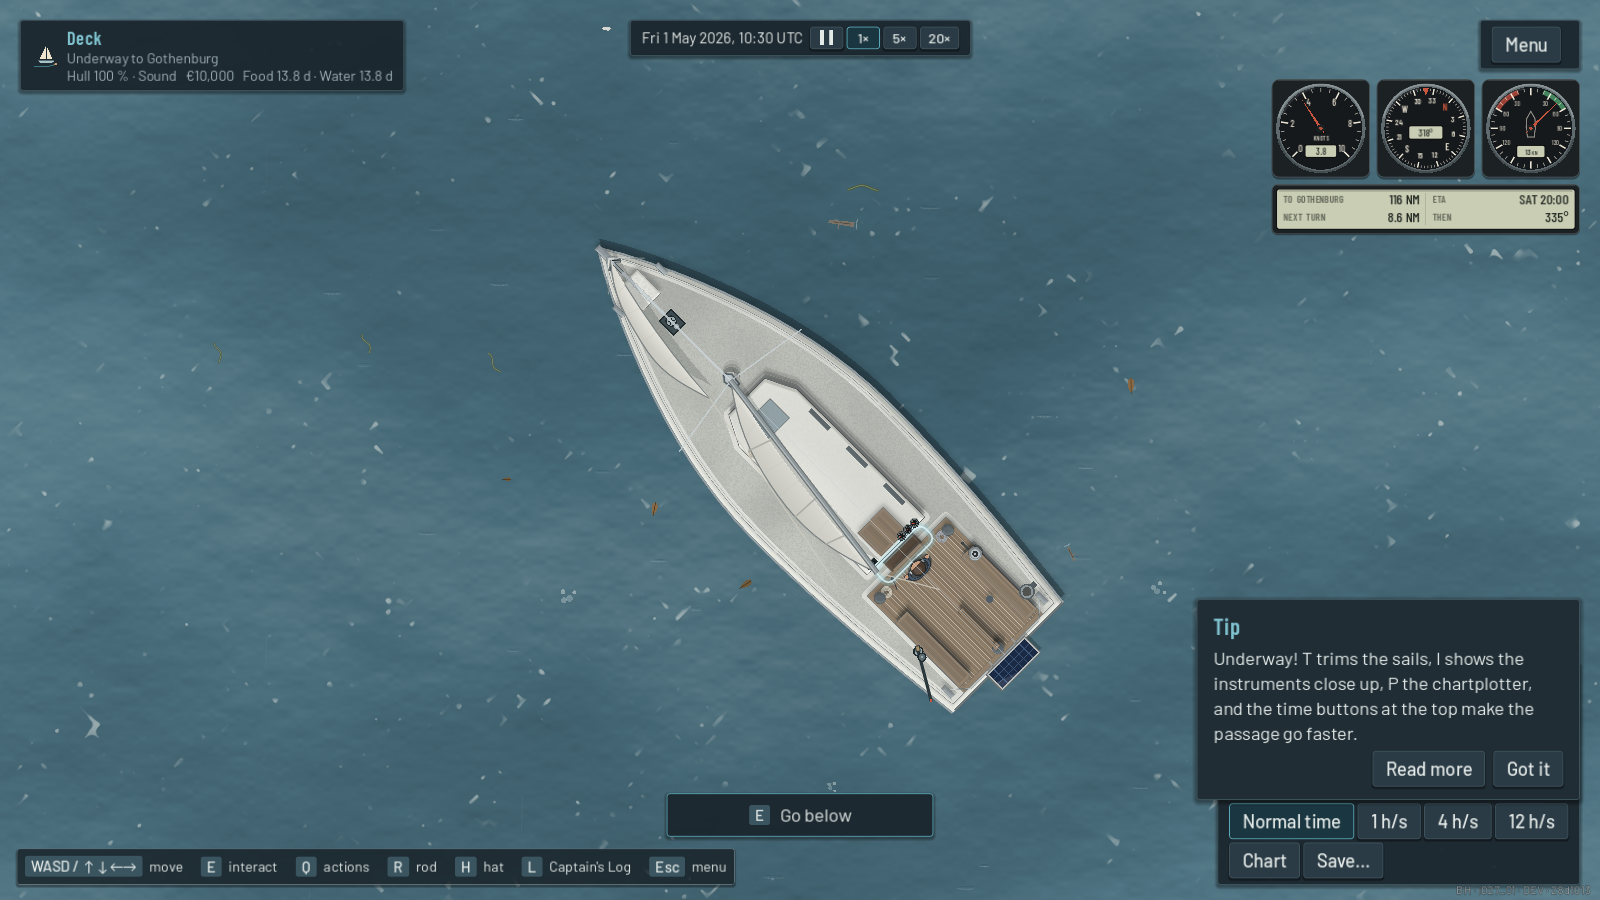
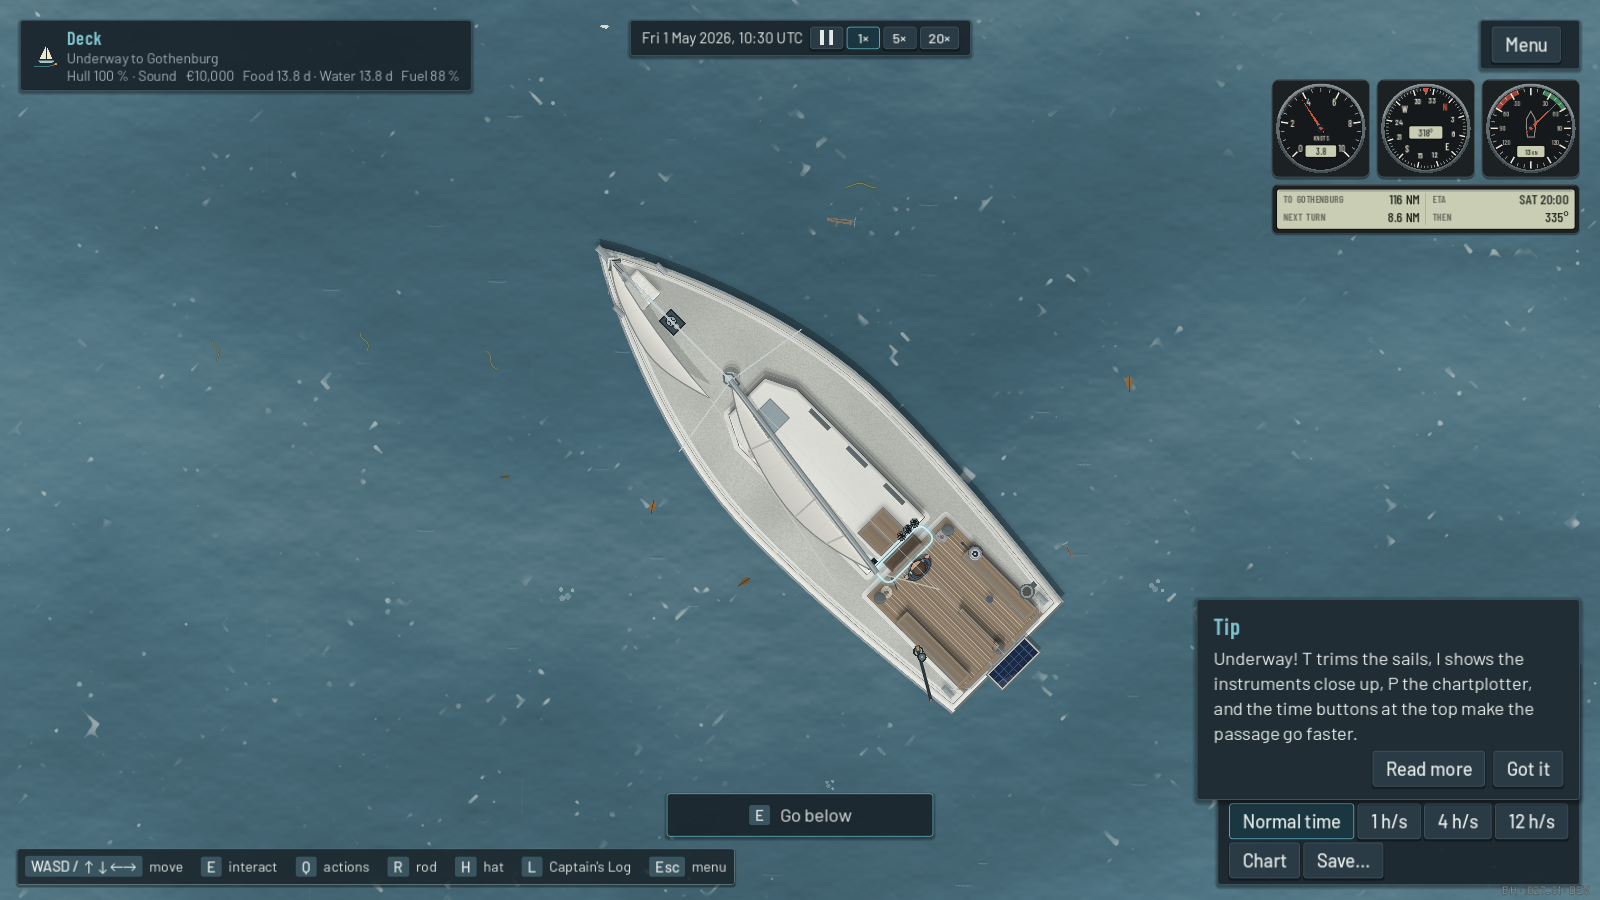
I027 Tier 2: the action wheel makes room for its items; Tier 2 screenshots
Under way the wheel now holds eleven items (Tack now, Motor to windward);
with the fixed ellipse they overlapped. Its radii now follow the item count
and stay on screen (tested at 1280x720 and 1024x768, 100 and 130 %).

Claude-Session: https://claude.ai/code/session_01HoR6KFjcEMyK8FPor4k1Dc

Changed region(s): [[0.25, 0.0, 0.3125, 0.1244]]

diff --git a/docs/technical/GDSCRIPT_GUIDE_DA.md b/docs/technical/GDSCRIPT_GUIDE_DA.md
@@ -1686,7 +1686,7 @@ Reglerne står i [CAPTAINS_ORDERS.md](../../CAPTAINS_ORDERS.md) (Working rules).
 ### `src/ui/action_wheel.gd`
 
 **Formål:** Ringen af handlinger, der åbner med Q.
-- **Hvad det gør:** Lægger de handlinger, der giver mening, hvor du er (ved roret, i kahytten, for anker, i havn), i en ring; piletaster eller A/D flytter rundt, E/Enter vælger, Q eller Esc lukker. Tænd/sluk-punkter viser et afkrydsningsfelt.
+- **Hvad det gør:** Lægger de handlinger, der giver mening, hvor du er (ved roret, i kahytten, for anker, i havn), i en ring; piletaster eller A/D flytter rundt, E/Enter vælger, Q eller Esc lukker. Tænd/sluk-punkter viser et afkrydsningsfelt. I027: hjulet vokser med antallet af punkter (under sejlads kan det rumme et dusin), så ingen to nogensinde overlapper, og det bliver på skærmen ved alle grænsefladestørrelser.
 - **Arbejder sammen med:** `App` (som giver listen fra `App.get_wheel_actions()`), `ModalPanel` / modal-stakken (stakken af åbne vinduer), `UiTheme`.
 - **Holder styr på:** Kun listen af handlinger, den har fået, og hvilken der er valgt.
 - **Hvornår det kører:** Når du trykker Q (eller åbner det) under spillet.
@@ -2586,7 +2586,7 @@ Reglerne står i [CAPTAINS_ORDERS.md](../../CAPTAINS_ORDERS.md) (Working rules).
 ### `tests/suites/test_cost_of_wind.gd`
 
 **Formål:** Tester brændstof og driftsomkostningerne (I027).
-- **Hvad det gør:** Tester balancefilen, brændstof brugt kun for motor, en tom tank der overlader det til sejlene (ingen gratis motor, aldrig strandet), køb af brændstof (fyld op, med få penge, Relaxed billigere, intet til søs), havnepenge (nætter, et kort ophold, eftergivet ud over pengene), regnskabet og en rejses oversigt, motor op mod vinden mod krydsning, det hele gennem et gemt spil og et ældre gemt spil, og tankanlægget på kajen med sin menu, statuslinjen og havnekontorets driftsomkostninger.
+- **Hvad det gør:** Tester balancefilen, brændstof brugt kun for motor, en tom tank der overlader det til sejlene (ingen gratis motor, aldrig strandet), køb af brændstof (fyld op, med få penge, Relaxed billigere, intet til søs), havnepenge (nætter, et kort ophold, eftergivet ud over pengene), regnskabet og en rejses oversigt, motor op mod vinden mod krydsning, det hele gennem et gemt spil og et ældre gemt spil, og tankanlægget på kajen med sin menu, statuslinjen og havnekontorets driftsomkostninger. Den tester også, at handlingshjulet under sejlads aldrig lader sine punkter overlappe ved de lovede størrelser og skaleringer.
 - **Arbejder sammen med:** `Economy`, `GameSession`, `Simulation`, `CareerLedger`, `SessionState`, `HarbourFront`, `FuelMenu`, `HarbourOfficeMenu`, `Hud`, kajhjælperen.
 - **Holder styr på:** Intet selv.
 - **Hvornår det kører:** Kun i testene.
@@ -3416,7 +3416,7 @@ Reglerne står i [CAPTAINS_ORDERS.md](../../CAPTAINS_ORDERS.md) (Working rules).
 ### `tests/screenshots_i027.gd`
 
 **Formål:** Tager de billeder, der viser I027 virke i det kørende spil.
-- **Hvad det gør:** Starter et nyt spil, sætter sejl mod Göteborg med vinden lige imod og fotograferer båden, der krydser på dækket, instrumenterne med halsen og fremdriften, kortplotteren, dækket efter en vending i hånden og handlingshjulet med "Vend nu". `--shots=` vælger nogle.
+- **Hvad det gør:** Starter et nyt spil, sætter sejl mod Göteborg med vinden lige imod og fotograferer båden, der krydser på dækket, instrumenterne med halsen og fremdriften, kortplotteren, dækket efter en vending i hånden og handlingshjulet med "Vend nu". `--shots=` vælger nogle. Billeder fra trin 2 (10-14, docs/screenshots/i027/tier2): tankanlæggets pumpe på kajen, dens menu, havnekontorets driftsomkostninger, hjulets Motor op mod vinden og statuslinjens brændstof.
 - **Arbejder sammen med:** app-scenen, `Simulation`, `GameSession`, `InstrumentView`, `PlotterView`, handlingshjulet.
 - **Holder styr på:** Intet; den skriver PNG-filer (kun testgemmer og testindstillinger).
 - **Hvornår det kører:** Kun i hånden, med en rigtig skærm eller Xvfb: `res://tests/screenshots_i027.tscn -- [--out=DIR] [--shots=a,b]`.

diff --git a/docs/technical/GDSCRIPT_GUIDE_EN.md b/docs/technical/GDSCRIPT_GUIDE_EN.md
@@ -1684,7 +1684,7 @@ The rules are in [CAPTAINS_ORDERS.md](../../CAPTAINS_ORDERS.md) (Working rules).
 ### `src/ui/action_wheel.gd`
 
 **Purpose:** The ring of actions that opens with Q.
-- **What it does:** Places the actions that make sense where you are (helm, cabin, at anchor, in harbour) in a ring; arrow keys or A/D move round it, E/Enter chooses, Q or Esc closes. On/off items show a check box.
+- **What it does:** Places the actions that make sense where you are (helm, cabin, at anchor, in harbour) in a ring; arrow keys or A/D move round it, E/Enter chooses, Q or Esc closes. On/off items show a check box. I027: the wheel grows with the number of items (under way it can hold a dozen) so no two ever overlap, and stays on the screen at every interface size.
 - **Works with:** `App` (which gives it the list from `App.get_wheel_actions()`), `ModalPanel` / the modal stack, `UiTheme`.
 - **Keeps:** Only the list of actions it was given and which one is selected.
 - **When it runs:** When you press Q (or open it) during play.
@@ -2584,7 +2584,7 @@ The rules are in [CAPTAINS_ORDERS.md](../../CAPTAINS_ORDERS.md) (Working rules).
 ### `tests/suites/test_cost_of_wind.gd`
 
 **Purpose:** Checks fuel and the running costs (I027).
-- **What it does:** Checks the balance file, fuel burned only under engine, an empty tank leaving the sails (no free engine, never stranded), buying fuel (fill up, with little money, Relaxed cheaper, none at sea), harbour dues (nights, a short stop, waived beyond the money), the books and a voyage's record, motoring to windward against beating, everything through a save and an older save, and the fuel berth on the quay with its menu, the status line and the harbour office's running costs.
+- **What it does:** Checks the balance file, fuel burned only under engine, an empty tank leaving the sails (no free engine, never stranded), buying fuel (fill up, with little money, Relaxed cheaper, none at sea), harbour dues (nights, a short stop, waived beyond the money), the books and a voyage's record, motoring to windward against beating, everything through a save and an older save, and the fuel berth on the quay with its menu, the status line and the harbour office's running costs. It also checks that the action wheel under way never overlaps its items at the promised sizes and scales.
 - **Works with:** `Economy`, `GameSession`, `Simulation`, `CareerLedger`, `SessionState`, `HarbourFront`, `FuelMenu`, `HarbourOfficeMenu`, `Hud`, the quay helper.
 - **Keeps:** Nothing of its own.
 - **When it runs:** Only in tests.
@@ -3414,7 +3414,7 @@ The rules are in [CAPTAINS_ORDERS.md](../../CAPTAINS_ORDERS.md) (Working rules).
 ### `tests/screenshots_i027.gd`
 
 **Purpose:** Takes the pictures that show I027 working in the running game.
-- **What it does:** Starts a new game, sets sail for Gothenburg with the wind on the nose and photographs the boat beating on deck, the instruments with the tack and the progress made good, the chartplotter, the deck after a tack by hand and the action wheel with "Tack now". `--shots=` picks some.
+- **What it does:** Starts a new game, sets sail for Gothenburg with the wind on the nose and photographs the boat beating on deck, the instruments with the tack and the progress made good, the chartplotter, the deck after a tack by hand and the action wheel with "Tack now". `--shots=` picks some. Tier 2 shots (10-14, docs/screenshots/i027/tier2): the fuel berth's pump on the quay, its menu, the harbour office's running costs, the wheel's Motor to windward and the status line's fuel.
 - **Works with:** the app scene, `Simulation`, `GameSession`, `InstrumentView`, `PlotterView`, the action wheel.
 - **Keeps:** Nothing; it writes PNG files (test saves and settings only).
 - **When it runs:** Only by hand, with a real screen or Xvfb: `res://tests/screenshots_i027.tscn -- [--out=DIR] [--shots=a,b]`.

diff --git a/docs/technical/GDSCRIPT_ARCHITECTURE.md b/docs/technical/GDSCRIPT_ARCHITECTURE.md
@@ -2059,7 +2059,7 @@ review. Rules: [CAPTAINS_ORDERS.md](../../CAPTAINS_ORDERS.md) (Working rules).
 
 ### `src/ui/action_wheel.gd`
 
-- **Role:** class_name `ActionWheel`, extends `ModalPanel`; radial modal menu of context actions (Q).
+- **Role:** class_name `ActionWheel`, extends `ModalPanel`; radial modal menu of context actions (Q). I027: `wheel_radii(count, area)` (static): rx ≥ (ITEM_SIZE.x + 10) / sin(step), at least RADIUS × 1.5, clamped to the area; ry = rx / 1.5 within [RADIUS, area.y / 2 − 130]; title and hint follow ry.
 - **Depends on:** `ModalPanel` (close, stack), `UiTheme.color(&"backdrop")`, theme icons `checked`/`unchecked` of `CheckBox`; items come from `App.get_wheel_actions()`.
 - **Signals:** declares `action_chosen(id: StringName)`, emitted in `choose()` after `close()`. Connects each button's `pressed`, `mouse_entered`, `focus_entered`, and its own `resized` -> `_layout`.
 - **State:** `items: Array[Dictionary]` (`id`, `label`, `action: Callable`, optional `checked: Callable`), `_selected`. "checked" is read once in `_ready` (never cached state).
@@ -3086,7 +3086,7 @@ review. Rules: [CAPTAINS_ORDERS.md](../../CAPTAINS_ORDERS.md) (Working rules).
 
 ### `tests/suites/test_cost_of_wind.gd`
 
-- **Role:** extends RefCounted; I027 Tier 2 suite: `_test_data`, `_test_burn` (calm: burn = burn_lph × h; abeam wind per leg: 0 under sail), `_test_empty_tank`, `_test_buy_fuel`, `_test_dues`, `_test_ledger_and_voyage` (Copenhagen → Helsingør), `_test_motor_upwind`, `_test_save`, `_test_fuel_berth` (app scene, TestQuay.use_door FUEL, FillButton).
+- **Role:** extends RefCounted; I027 Tier 2 suite: `_test_data`, `_test_burn` (calm: burn = burn_lph × h; abeam wind per leg: 0 under sail), `_test_empty_tank`, `_test_buy_fuel`, `_test_dues`, `_test_ledger_and_voyage` (Copenhagen → Helsingør), `_test_motor_upwind`, `_test_save`, `_test_fuel_berth` (app scene, TestQuay.use_door FUEL, FillButton). Also the wheel under way: no button overlaps / off screen at 1280×720 100 % and 130 %, 1024×768 130 %.
 - **Depends on:** `Economy`, `GameSession`, `Simulation`, `SessionState`, `QuayLayout`, `HarbourFront`, `FuelMenu`, `HarbourOfficeMenu`, `Hud`, `tests/helpers/quay.gd`; runner helpers.
 - **State:** `Simulation.auto_advance` false; session ended at the end.
 - **Lifecycle:** in `tests/test_runner.gd` `SUITES` after `test_windward`.
@@ -3934,7 +3934,7 @@ review. Rules: [CAPTAINS_ORDERS.md](../../CAPTAINS_ORDERS.md) (Working rules).
 
 ### `tests/screenshots_i027.gd`
 
-- **Role:** extends Node; rendered I027 evidence (`docs/screenshots/i027/tier1/` by default): new game, `plan_route_to(&"gothenburg")`, depart, `_beat(minutes)` (wind kept on the current leg's nose, 5-minute `Simulation.advance`), shots 01 deck beating, 02 `open_instruments`, 03 `open_chartplotter`, 04 after `app.tack_now()`, 05 the action wheel.
+- **Role:** extends Node; rendered I027 evidence (`docs/screenshots/i027/tier1/` by default): new game, `plan_route_to(&"gothenburg")`, depart, `_beat(minutes)` (wind kept on the current leg's nose, 5-minute `Simulation.advance`), shots 01 deck beating, 02 `open_instruments`, 03 `open_chartplotter`, 04 after `app.tack_now()`, 05 the action wheel. Tier 2: `_tier2()` (fuel 9 L, quay, `open_fuel_berth`, `open_harbour_office(false)`), shots ≥ 10 go to `tier2/`, 13 = the wheel under way.
 - **Depends on:** `src/app/app.tscn`, `Simulation`, `GameSession`, `WindField`, `WeatherModel`, `SaveManager`/`SettingsManager` (test paths).
 - **State:** none kept; writes PNGs.
 - **Lifecycle:** run by hand under Xvfb (`tests/screenshots_i027.tscn`).
